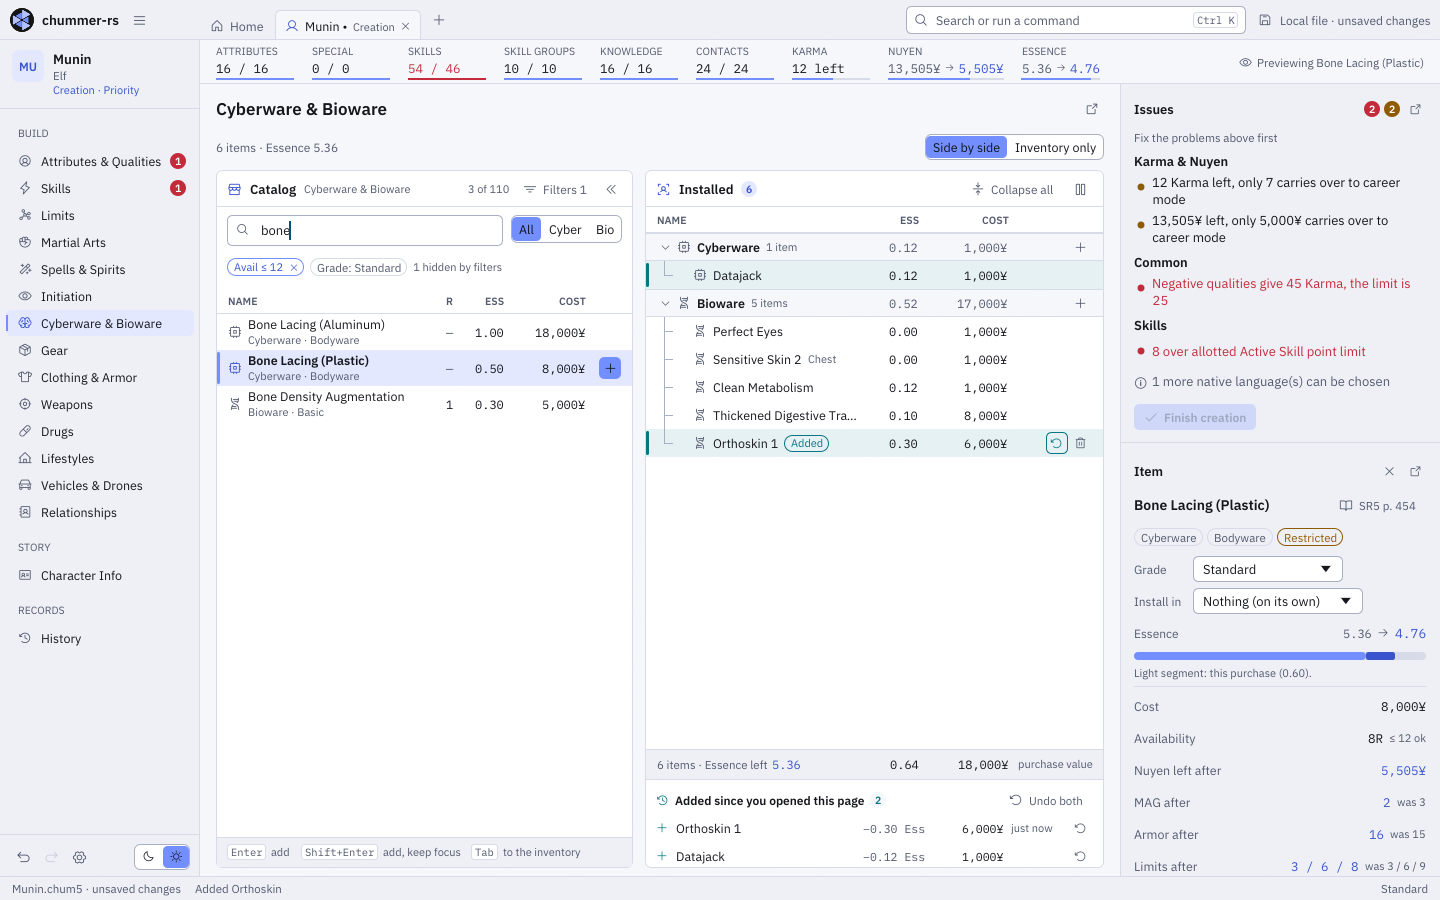
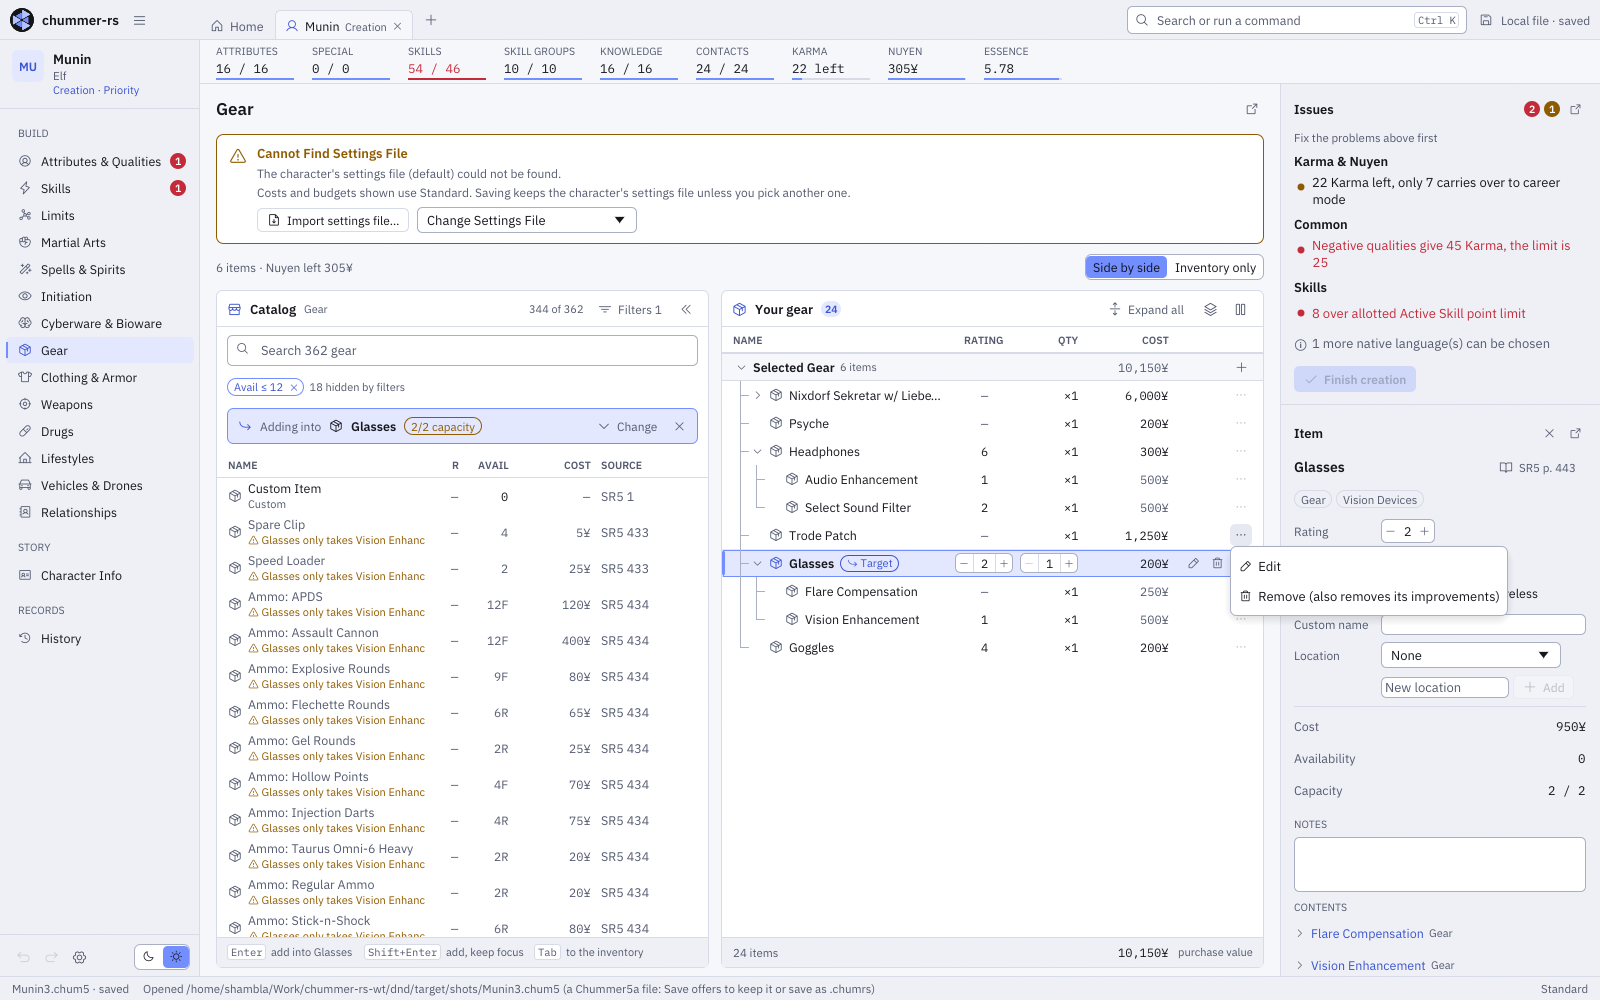
Workspace inventory: screenshots (row menu, drag, target with capacity, light); Move… menu skips the current location

diff --git a/crates/chummer-gui/src/workspace/inventory.rs b/crates/chummer-gui/src/workspace/inventory.rs
@@ -452,7 +452,13 @@ impl Ctx<'_> {
         // "Move to …" entries: the locations (top-level items), out of
         // the item it is in (nested items).
         let mut moves: Vec<(String, String)> = if !guid.is_empty() && edit::has_location(ch, &guid) {
-            std::iter::once((String::new(), lang.tr("No location"))).chain(edit::locations(ch, &guid)).map(|(g, n)| (format!("move:{g}"), lang.tr_fmt("Move to {0}", &[&n]))).collect()
+            // Not where it is now.
+            let here = el.get("location");
+            std::iter::once((String::new(), lang.tr("No location")))
+                .chain(edit::locations(ch, &guid))
+                .filter(|(g, _)| !g.eq_ignore_ascii_case(&here))
+                .map(|(g, n)| (format!("move:{g}"), lang.tr_fmt("Move to {0}", &[&n])))
+                .collect()
         } else {
             Vec::new()
         };

diff --git a/README.md b/README.md
@@ -614,12 +614,12 @@ was.
 
   ![Cyberware with the catalog beside it: two items added this visit, a record previewed](docs/screenshots/workspace-inventory-dark.png)
   ![A narrow window: the catalog above the inventory, the selected record's details under its row](docs/screenshots/workspace-inventory-stacked-dark.png)
-  ![Adding into a container: the Target, what does not fit dimmed](docs/screenshots/workspace-inventory-target-dark.png)
+  ![Adding into the selected goggles: the Target, its capacity, what does not fit dimmed with the reason](docs/screenshots/workspace-inventory-target-dark.png)
   ![The item table in career: a selected container, a hovered mod's actions](docs/screenshots/workspace-inventory-table-dark.png)
   ![A row's ⋯ menu, open on a row that is not selected](docs/screenshots/workspace-inventory-menu-dark.png)
   ![Dragging a vision enhancement onto goggles: the targets outlined, the chip says what the drop does](docs/screenshots/workspace-inventory-drag-dark.png)
   ![Weapons: dice pool, damage, ammunition and the equipped toggles](docs/screenshots/workspace-inventory-weapons-dark.png)
-  ![The same as the first, light](docs/screenshots/workspace-inventory-light.png)
+  ![Light: full glasses as the target (2/2 capacity), what does not fit dimmed with the reason, a row's ⋯ menu](docs/screenshots/workspace-inventory-light.png)
 - **Catalog beside the inventory**: "Add …" opens the game data next to
   the inventory (Classic keeps the selection dialog), and the inventory
   stays in view: side by side, or on a narrow page stacked above it
